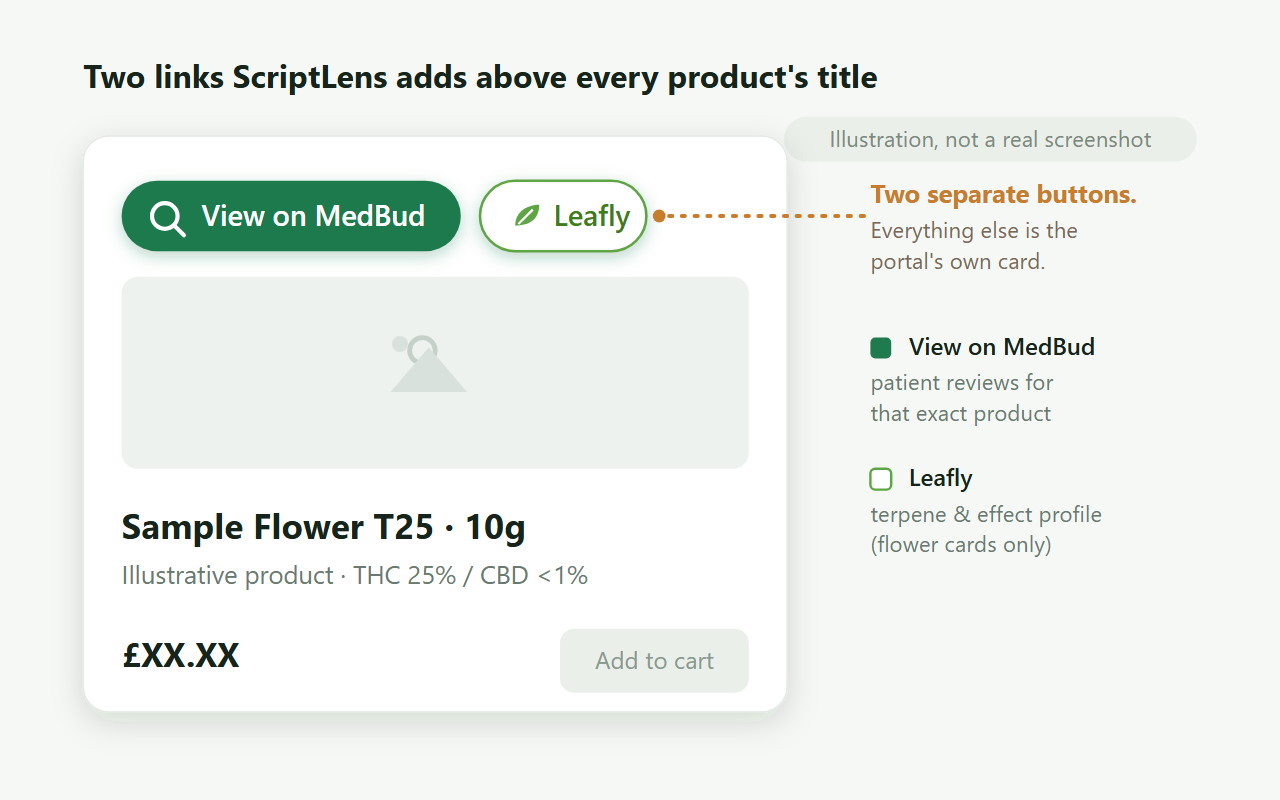
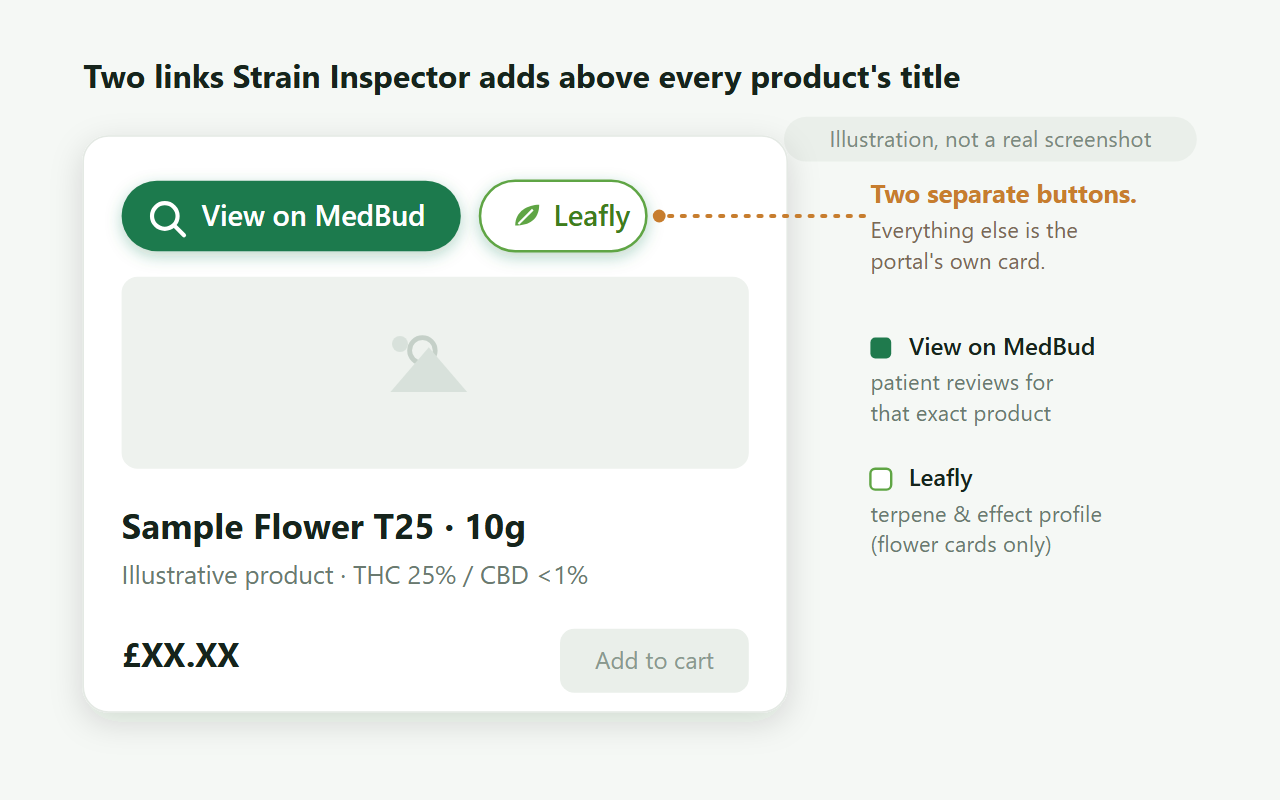
Rename the project from ScriptLens to Strain Inspector
Updates the manifest name, package name, docs, source comments, the store
listing, and regenerates the preview art with the new wordmark. The name
ScriptLens collided with an existing product; Strain Inspector is clear.

Changed region(s): [[0.1875, 0.0625, 0.75, 0.125]]

diff --git a/src/options/options.html b/src/options/options.html
@@ -2,12 +2,12 @@
 <html lang="en">
 	<head>
 		<meta charset="utf-8">
-		<title>ScriptLens settings</title>
+		<title>Strain Inspector settings</title>
 		<link rel="stylesheet" href="options.css">
 	</head>
 	<body>
 		<main>
-			<h1>ScriptLens</h1>
+			<h1>Strain Inspector</h1>
 			<p class="tagline">Patient reviews and strain profiles, on every product in the CB1 Medical portal.</p>
 
 			<section>
@@ -47,7 +47,7 @@
 
 			<footer>
 				<p class="disclaimer">
-					ScriptLens surfaces publicly available patient opinions and strain information. It is not medical
+					Strain Inspector surfaces publicly available patient opinions and strain information. It is not medical
 					advice, and it is not affiliated with or endorsed by CB1 Medical, MedBud or Leafly. Decisions
 					about your medication belong with your prescriber.
 				</p>

diff --git a/docs/store-listing.md b/docs/store-listing.md
@@ -1,11 +1,11 @@
-# Chrome Web Store listing - ScriptLens
+# Chrome Web Store listing - Strain Inspector
 
 Paste-ready copy for the Web Store submission. Update here, then re-paste, when the listing changes.
 
 ## Name
 
 ```
-ScriptLens
+Strain Inspector
 ```
 
 ## Summary (max 132 characters)
@@ -25,7 +25,7 @@ English (UK)
 ## Detailed description
 
 ```
-ScriptLens adds a link to patient reviews and strain information next to every medication on the
+Strain Inspector adds a link to patient reviews and strain information next to every medication on the
 CB1 Medical patient portal - so you can check what other patients think of a product without opening
 a second tab and searching for it by hand.
 
@@ -37,23 +37,23 @@ WHAT IT DOES
   that are out of stock or over your prescription limit.
 
 HOW IT WORKS
-ScriptLens ships with a snapshot of MedBud's medication list and matches each product locally. A product
+Strain Inspector ships with a snapshot of MedBud's medication list and matches each product locally. A product
 it recognises links straight to that medication's MedBud page. Any that fail to match - a renamed or
 newly listed product - fall back to a Google search query for the product instead of a direct link,
 which still lands you on the right page. Nothing is scraped: it only ever offers you a link.
 
 PRIVATE BY DESIGN
-ScriptLens runs entirely in your browser. There is no account, no analytics, no tracking, and no server.
+Strain Inspector runs entirely in your browser. There is no account, no analytics, no tracking, and no server.
 It never reads, stores or transmits your name, your prescription, your allowances or your order history.
 It only reads the public name of the medication shown on a card, and only to build a link. Full privacy
-policy: https://github.com/Cheesewizard/scriptlens/blob/main/PRIVACY.md
+policy: https://github.com/Cheesewizard/strain-inspector/blob/main/PRIVACY.md
 
 NOT MEDICAL ADVICE
-ScriptLens surfaces publicly available patient opinions and strain information. It is not medical advice,
+Strain Inspector surfaces publicly available patient opinions and strain information. It is not medical advice,
 and it is not affiliated with or endorsed by CB1 Medical, MedBud or Leafly. Decisions about your
 medication belong with your prescriber.
 
-Free and open source: https://github.com/Cheesewizard/scriptlens
+Free and open source: https://github.com/Cheesewizard/strain-inspector
 Support development: https://github.com/sponsors/Cheesewizard
 ```
 
@@ -68,7 +68,7 @@ https://github.com/sponsors/Cheesewizard
 **Single purpose**
 
 ```
-ScriptLens adds links to patient reviews (MedBud) and strain profiles (Leafly) for the medications shown
+Strain Inspector adds links to patient reviews (MedBud) and strain profiles (Leafly) for the medications shown
 on the CB1 Medical patient portal, so the user can research a product without leaving the page.
 ```
 
@@ -88,7 +88,7 @@ on the CB1 Medical patient portal, so the user can research a product without le
 
 **Remote code:** No, it does not use remote code.
 
-**Data collection:** ScriptLens does not collect or use any user data.
+**Data collection:** Strain Inspector does not collect or use any user data.
 
 ## Screenshots (need 1–5, 1280×800 or 640×400 PNG)
 

diff --git a/PRIVACY.md b/PRIVACY.md
@@ -1,26 +1,26 @@
 # Privacy policy
 
-**ScriptLens does not collect, store, or transmit any personal or medical data.** There is no analytics,
-no tracking, no account, and no server that belongs to ScriptLens.
+**Strain Inspector does not collect, store, or transmit any personal or medical data.** There is no analytics,
+no tracking, no account, and no server that belongs to Strain Inspector.
 
 This is a short, plain-English policy for a tool that runs entirely in your browser.
 
 ## What it reads
 
-On the CB1 Medical portal (`patient.cb1medical.com`), ScriptLens reads the **product name** shown on each
+On the CB1 Medical portal (`patient.cb1medical.com`), Strain Inspector reads the **product name** shown on each
 medication card - the text CB1 already puts in the page's accessibility labels. That is all it takes
 from the page. It does **not** read, store, or transmit your name, your prescription, your allowances,
 your order history, or anything else about you or your account.
 
 ## What leaves your browser, and where it goes
 
-- **Nothing goes to a ScriptLens server, because there isn't one.**
-- **ScriptLens never fetches anything** - it only ever builds links for you to click. When a product is
+- **Nothing goes to a Strain Inspector server, because there isn't one.**
+- **Strain Inspector never fetches anything** - it only ever builds links for you to click. When a product is
   not in the bundled data, the link is a web search built from the product name (a Google search scoped
   to MedBud, or to Leafly). Navigating there happens only when **you click** the link, exactly as if you
   had typed the name into a search box yourself.
 
-No link ScriptLens builds carries any information about you - only the public name of a medication.
+No link Strain Inspector builds carries any information about you - only the public name of a medication.
 
 ## What it stores
 
@@ -37,4 +37,4 @@ that enabled for extensions. You can clear all cached data from the settings pag
 ## Contact
 
 Questions or concerns: open an issue at
-<https://github.com/Cheesewizard/scriptlens>.
+<https://github.com/Cheesewizard/strain-inspector>.

diff --git a/README.md b/README.md
@@ -1,4 +1,4 @@
-# ScriptLens
+# Strain Inspector
 
 A browser extension that links every medication in the CB1 Medical patient portal to its
 [MedBud](https://medbud.wiki) patient reviews and its [Leafly](https://www.leafly.com) strain profile.
@@ -6,13 +6,13 @@ No more opening a second tab and searching for each product by hand.
 
 <p align="center">
   <img src="docs/preview-1280x800.png" width="760"
-       alt="ScriptLens adds a green 'View on MedBud' button and a separate 'Leafly' button above every product on the CB1 Medical portal">
+       alt="Strain Inspector adds a green 'View on MedBud' button and a separate 'Leafly' button above every product on the CB1 Medical portal">
 </p>
 
 <p align="center">
   <a href="https://github.com/sponsors/Cheesewizard">
-    <img src="https://img.shields.io/badge/Sponsor%20ScriptLens-ec6cb9?logo=githubsponsors&logoColor=white&style=for-the-badge"
-         alt="Sponsor ScriptLens on GitHub">
+    <img src="https://img.shields.io/badge/Sponsor%20Strain%20Inspector-ec6cb9?logo=githubsponsors&logoColor=white&style=for-the-badge"
+         alt="Sponsor Strain Inspector on GitHub">
   </a>
 </p>
 
@@ -31,7 +31,7 @@ wrong.
 
 The extension only ever gives you a link. It doesn't fetch reviews or ratings to show on the card.
 Reading MedBud's ratings automatically would need their permission, and their pages block automated
-requests anyway, so ScriptLens sends you to the reviews instead of scraping them.
+requests anyway, so Strain Inspector sends you to the reviews instead of scraping them.
 
 ## Installing
 
@@ -46,7 +46,7 @@ There's no build step. It loads as-is.
 
 ## How it works
 
-ScriptLens carries a built-in copy of MedBud's product list. When a page loads, it reads each product's
+Strain Inspector carries a built-in copy of MedBud's product list. When a page loads, it reads each product's
 name from the card and looks it up. A confident match links straight to that medication's MedBud page;
 anything it can't place (a renamed product, or one added since the built-in list was captured) links to
 a MedBud search instead, which still lands you on it.

diff --git a/CHANGELOG.md b/CHANGELOG.md
@@ -2,7 +2,7 @@
 
 ## 1.0.0
 
-First public release, as **ScriptLens**.
+First public release, as **Strain Inspector**.
 
 - Adds a **View on MedBud** link to every medication on the CB1 Medical portal - patient reviews without
   a second tab or a copy-paste. Flower cards also get a **Leafly** link to the strain's terpene and
@@ -16,5 +16,5 @@ First public release, as **ScriptLens**.
   analytics, no account, no server, and no personal or medical data ever leaves your browser. Its only
   site permission is the CB1 Medical portal itself. See [PRIVACY.md](PRIVACY.md).
 
-ScriptLens links to the reviews rather than showing rating numbers on the card: reading MedBud's data
+Strain Inspector links to the reviews rather than showing rating numbers on the card: reading MedBud's data
 programmatically would need their permission, and their pages are behind bot protection that refuses it.
